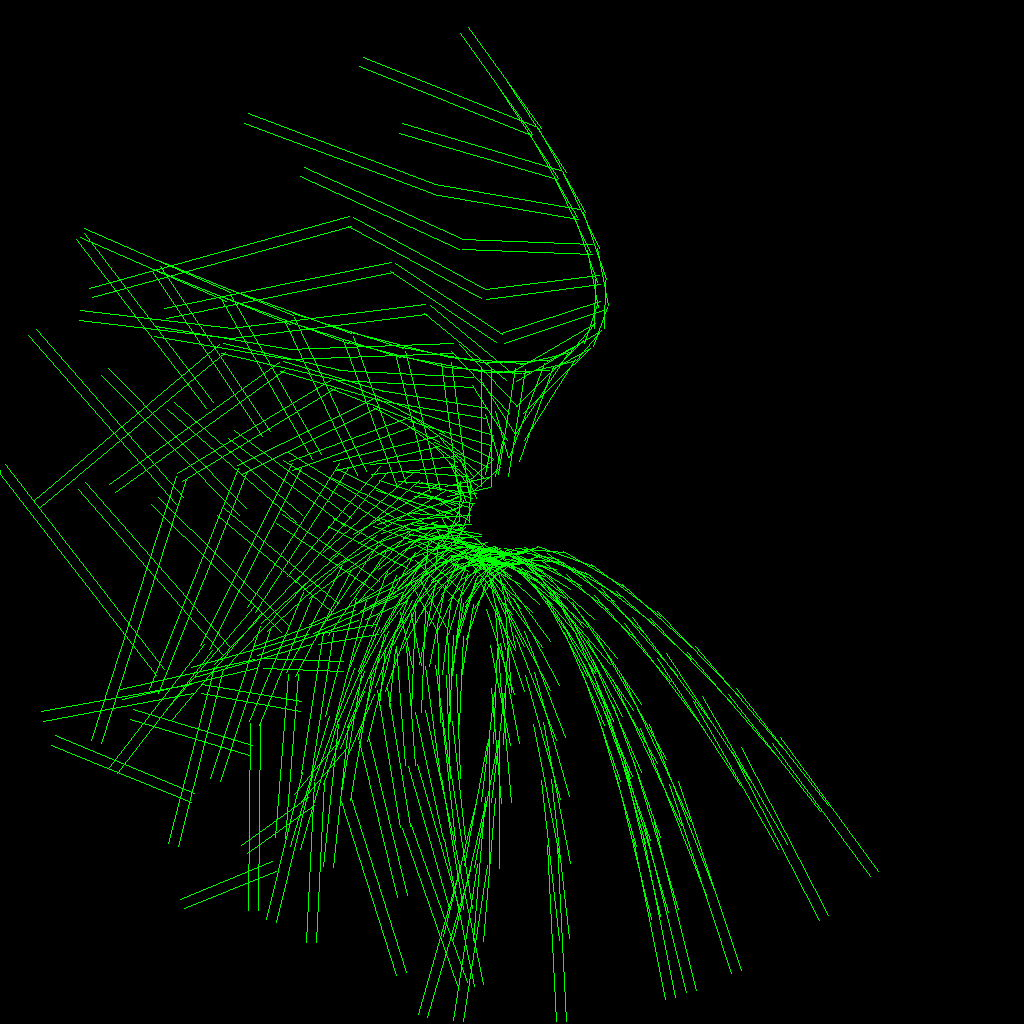
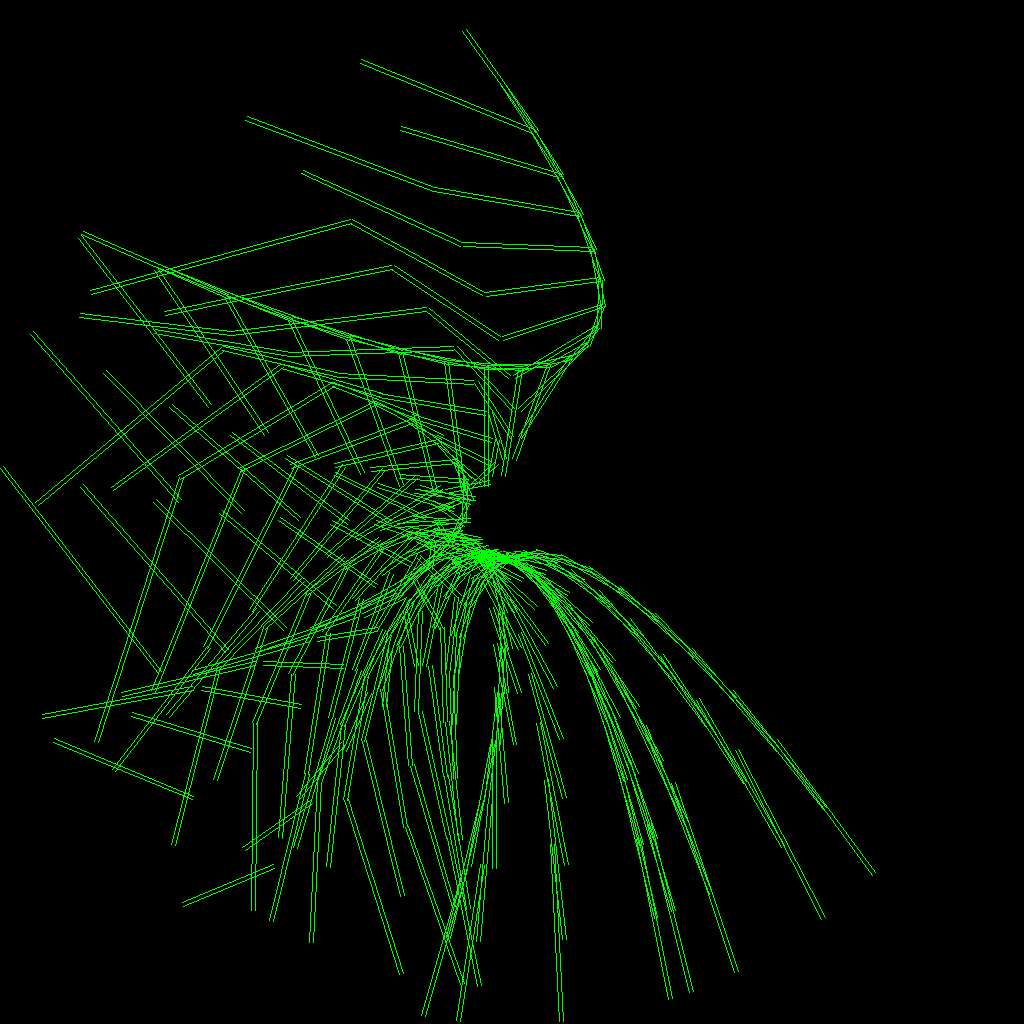
Demo of making lot edges

diff --git a/make_lot_edges.js b/make_lot_edges.js
@@ -1,0 +1,54 @@
+const { CityBuilder } = require("./src/city_builder")
+
+// Make a Bezier City
+
+const seed = 1024
+const num_curves = 16
+const scale = 1
+
+const city_builder = new CityBuilder(seed, num_curves, scale);
+
+city_builder.build_bezier_streets();
+city_builder.build_diagonal_streets();
+city_builder.add_parallels(2);
+
+
+console.log('Lot edges before splitting streets: ' + city_builder.lot_edges.length)
+
+city_builder.add_junctions();
+city_builder.intersect_parallels();
+city_builder.split_streets();
+
+console.log('Lot edges before splitting sreets: ' + city_builder.lot_edges.length)
+
+const hp = require('harry-plotter');
+
+const filename = 'assets/lot_edges.png'
+var plotter = new hp.JimpPlotter(filename, 1024, 1024);
+const bresenham = require("bresenham");
+
+plotter.init(() => {
+
+    city_builder.lot_edges.forEach(edge => {
+        console.log(JSON.stringify(edge))
+
+        let red = Math.floor(Math.random() * 255);
+        let green = Math.floor(Math.random() * 255);
+        let blue = Math.floor(Math.random() * 255);
+        let colour = {red: red, green: green, blue: blue};
+    
+        var points = bresenham(edge.geometry.start.x,
+            edge.geometry.start.y,
+            edge.geometry.end.x,
+            edge.geometry.end.y);
+        // plotter.plot_points(points, colour);
+        //     points = bresenham(street.edges.plus.geometry.start.x,
+        //     street.edges.plus.geometry.start.y,
+        //     street.edges.plus.geometry.end.x,
+        //     street.edges.plus.geometry.end.y);
+        plotter.plot_points(points, colour);
+    });
+
+    plotter.write();
+             
+})

diff --git a/README.md b/README.md
@@ -37,7 +37,29 @@ When two streets meet it creates a `junction`:
 
 ![Junctions](assets/add_junctions.png)
 
-Streets bound `lots`
+We want to know where the intersection of the two `parallels` of a street occur so we can
+stop rendering the parallel street edge when it hits that of another. We then use this 
+information to split the existing long streets into shorter streets.
+
+The code here is a bit _bruh_. You have to call three functions in order for it to work.
+Needs some TLC:
+
+```
+city_builder.add_junctions();
+city_builder.intersect_parallels();
+city_builder.split_streets();
+```
+
+`split_streets` is not very well named as it doesn't actually split the streets.
+Rather it creates `lot_edges` which when put together create `lots` which are the
+bounded areas of real estate made up from the result of splitting the streets. 
+More work required here.
+
+![Lot Edges](assets/lot_edges.png)
+
+The next step is to bind the `lot_edges` together into discreet `lots`:
+
+
 
 The [`make_city_lots.js`](make_city_lots.js) script creates the `bezier` and
 `diagonal` streets. 
